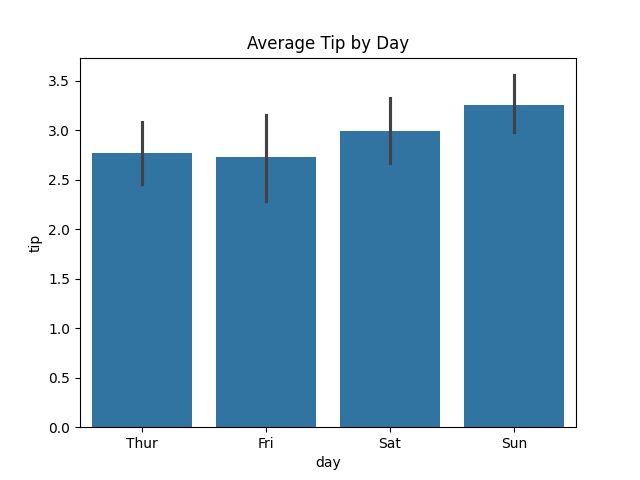
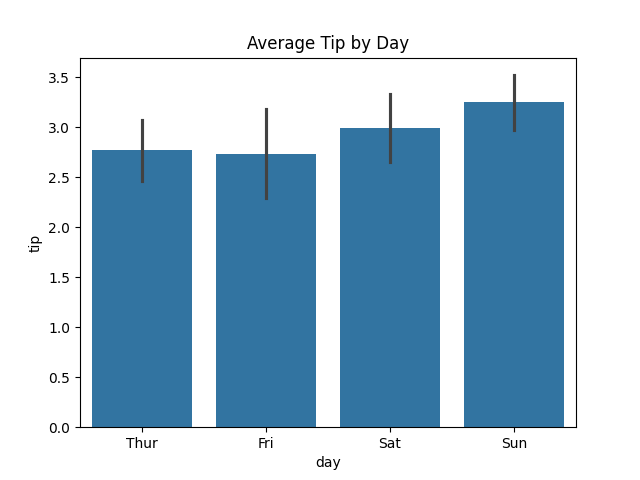
Completed Task 3 - Decision Tree

diff --git a/scripts/task3_decision_tree.py b/scripts/task3_decision_tree.py
@@ -1,0 +1,29 @@
+from sklearn.datasets import load_iris
+from sklearn.model_selection import train_test_split
+from sklearn.tree import DecisionTreeClassifier
+from sklearn.metrics import accuracy_score
+
+# Load dataset
+data = load_iris()
+
+X = data.data
+y = data.target
+
+# Split into training and testing
+X_train, X_test, y_train, y_test = train_test_split(
+    X, y, test_size=0.2, random_state=42
+)
+
+# Create model
+model = DecisionTreeClassifier()
+
+# Train model
+model.fit(X_train, y_train)
+
+# Make predictions
+y_pred = model.predict(X_test)
+
+# Evaluate
+accuracy = accuracy_score(y_test, y_pred)
+
+print("Model Accuracy:", accuracy)

diff --git a/README.md b/README.md
@@ -1,9 +1,6 @@
-## Task 2: Data Cleaning and EDA
+## Task 3: Decision Tree Model
 
-Performed exploratory data analysis on the tips dataset.
+Built a classification model using Decision Tree algorithm on the Iris dataset.
 
-### Observations:
-- Higher total bill amounts generally lead to higher tips.
-- Most bills fall in a mid-range distribution.
-- Average tips vary across different days.
-- Spending patterns differ slightly based on gender.
+### Outcome:
+The model was able to predict the category of flowers with high accuracy.
